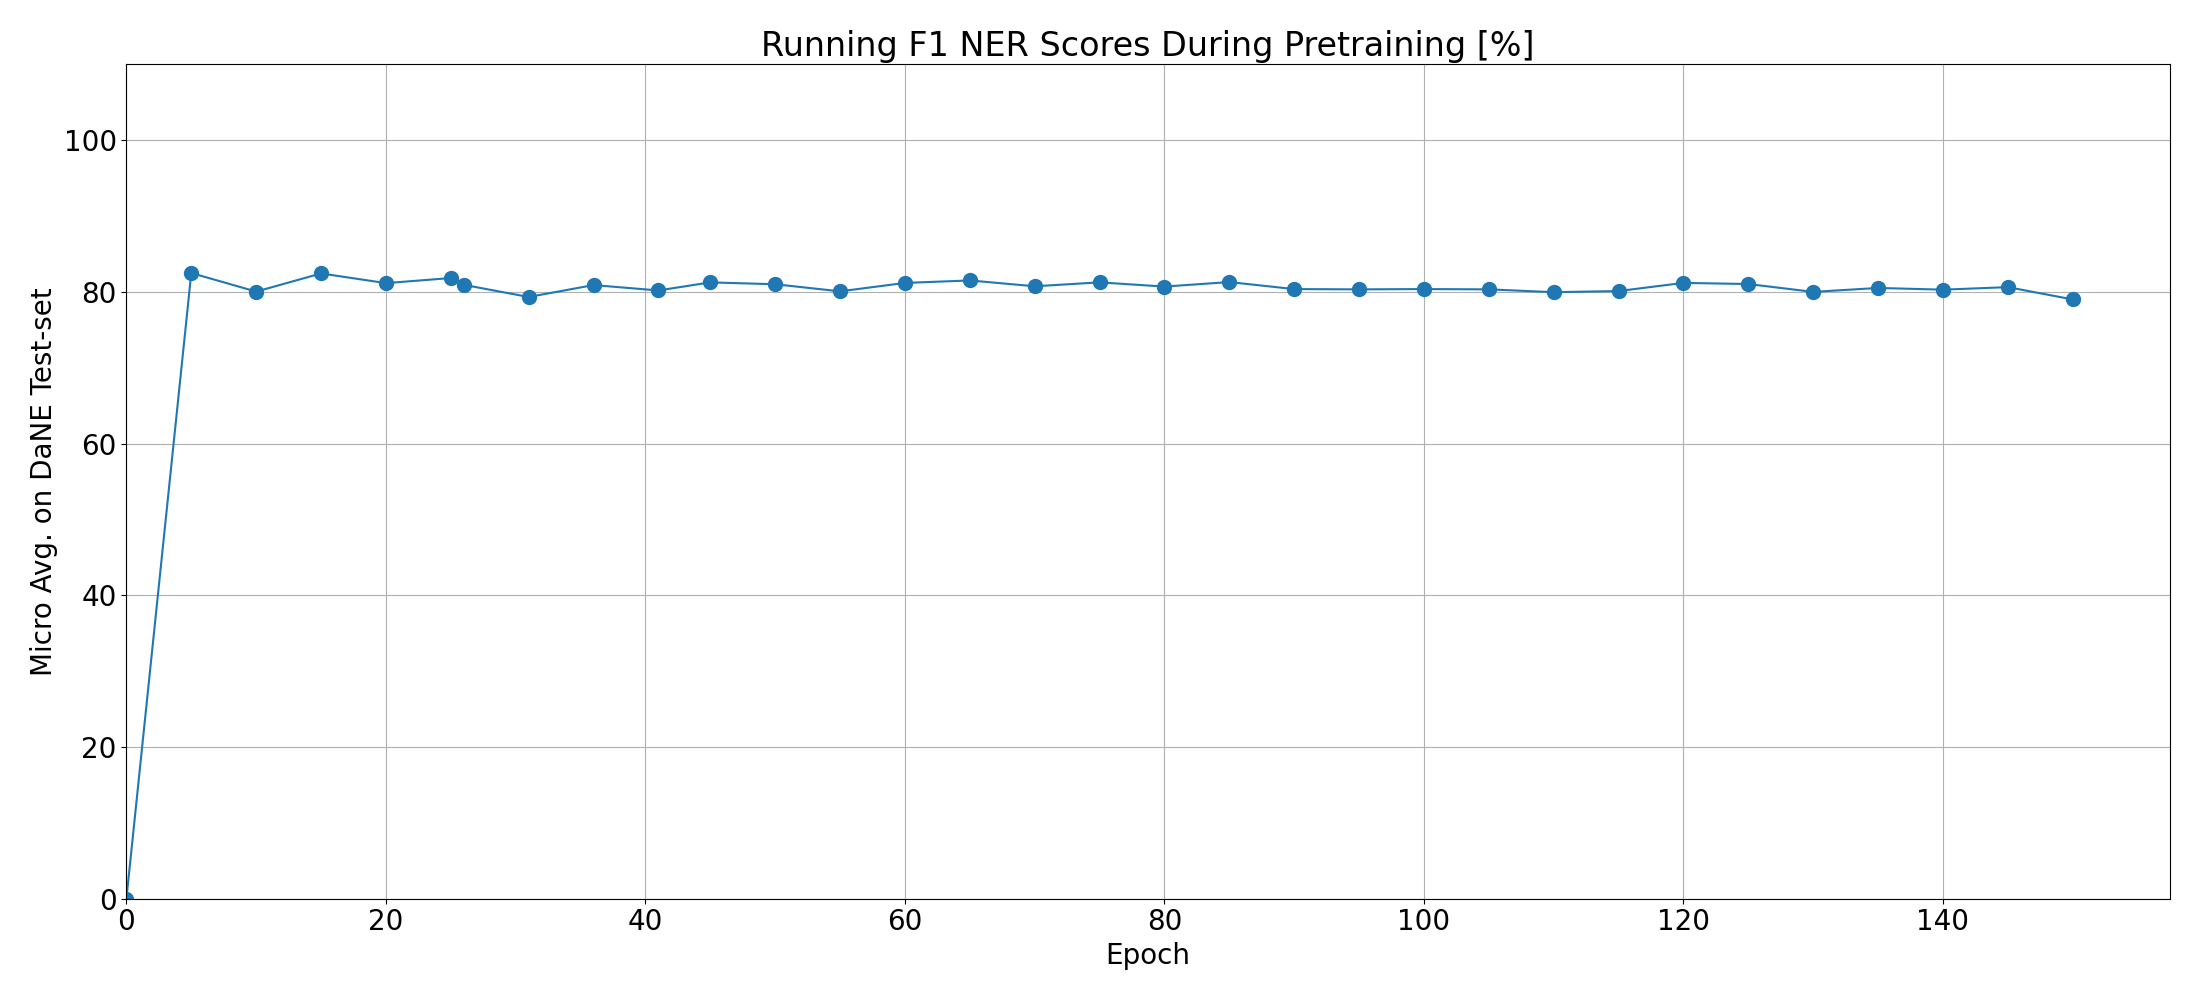
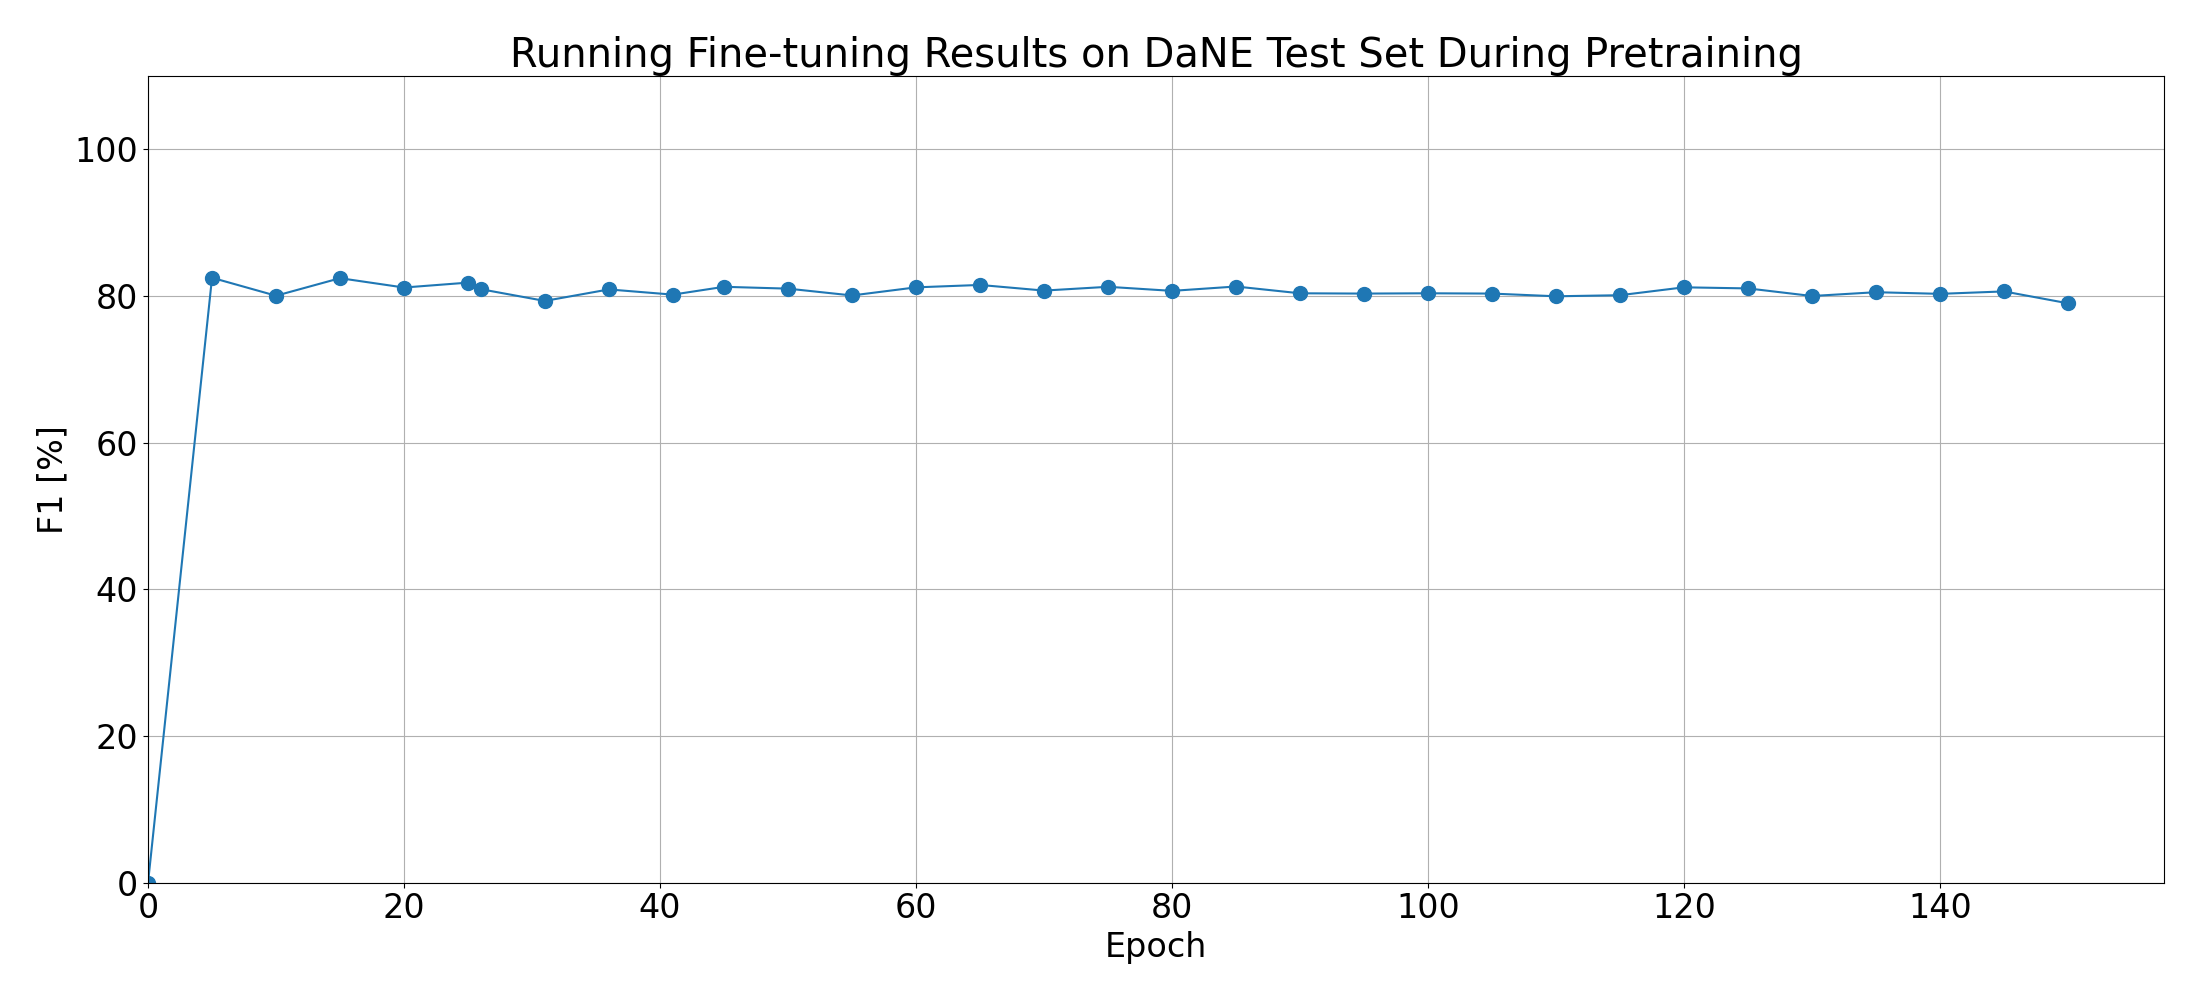
Sørgelige resultater

diff --git a/sections/discussion.tex b/sections/discussion.tex
@@ -41,29 +41,29 @@ These are mostly made up of entity embeddings which are subjected to layer norma
 
 \subsection{Effect of More Pretraining}
 \label{subsec:effmore}
-How more pretraining affects the language understanding of the model can be hard to quantify.
-Obviously, there is the loss and by extension the top $ k $ accuracy, but these follow directly from the pretraining task and are not direct measures of language understanding.
-High scores may also indicate overfitting, especially on small datasets.
+The goal of the pretraining is to infuse the model with general language understanding, but it is not immediately clear how to measure such an abstract concept.
+The simplest idea is naturally the loss and by extension the top $ k $ accuracies, but this approach is not exempt of issues:
+Without a validation set, overfitting can be disguised as improvement (especially on small datasets), or perhaps decreases in loss come from the decoder part of the masked language modelling, which is irrelevant to downstream tasks.
 
 One way to glimpse into the pretraining black box is to observe the performance of downstream language tasks on a number of checkpoints produced during the pretraining.
-Such a checkpoint was produced just after model initialization and following that after every fifth epoch for a total of 32 checkpoints from the main model.
-At every checkpoint, fine-tuning was performed using the hyperparameters from Table \ref{tab:baseline-hyper}.
+Such a checkpoint was produced just after model initialization and following that at roughly every fifth epoch for a total of 32 checkpoints.
+At every checkpoint, fine-tuning and evaluation on DaNE was performed using the hyperparameters from Table \ref{tab:baseline-hyper}.
 The result is shown in Figure \ref{fig:running}.
 \begin{figure}[H]
     \centering
-    \includegraphics[width=.8\textwidth]{running}
+    \includegraphics[width=.9\textwidth]{running}
     \caption{Fine-tuning results on DaNE using different pretraining checkpoints.}
     \label{fig:running}
 \end{figure}\noindent
-At least for NER, extra pretraining only yields improved results up to five epochs -- or maybe even less.
-After the first five epochs, fine-tuning performance is stagnant.
-In fact, the performance curve mirrors that of the masked subword accuracy of the MLM (see Table \ref{fig:pretrain-acc}).
-Also, there is hardly any correlation between the performance and the masked entity accuracy.
-This surprising result indicates that NER task primarily relies on the knowledge gained from the BERT part of the model.
+This result shows that pretraining definitely is necessary to get good performance on NER.
+Somewhat surprisingly, however, after five epochs -- or maybe even less -- additional pretraining does not improve downstream results even slightly.
+In fact, the curve almost perfectly mirrors the masked subword accuracy form Figure \ref{fig:pretrain-acc}, indicating that the model primarily relies on its BERT subset for NER.
 
-\begin{enumerate}
-    \item Adressér dette ret problematisk resultat bedre
-\end{enumerate}
+It must be noted that NER is just one downstream task and that other such tasks may see more benefit from additional pretraining.
+However, another explanation may be more probable:
+That the Danish Wikipedia is so small that it only takes a few epochs for DaLUKE to learn what it can from it -- especially given that Wikipedia made up an albeit small but still notable part of da-BERT's training data, so it already has been seen \cite{botxo2019dabert}.
+That would also help explain the much faster convergence of subword accuracy compared to entity accuracy.
+The pretraining dataset only has a little over 100 million subword tokens (see Table \ref{tab:metadata}) and 7.2 million entity annotations -- not exactly much for a model with 270 million parameters and an architecture with a well-known near insatiable thirst for data.
 
 \subsection{Baseline}
 For a baseline model, the main model is retrained using only 50 epochs, but otherwise using the same hyperparameters, shown in Table \ref{tab:pretrain-hyper}.
